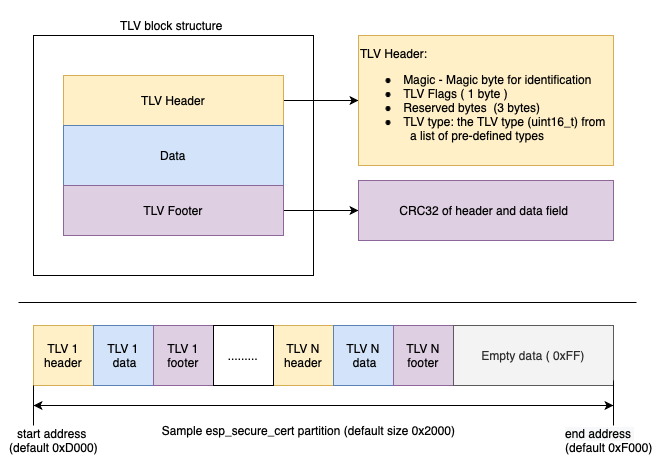
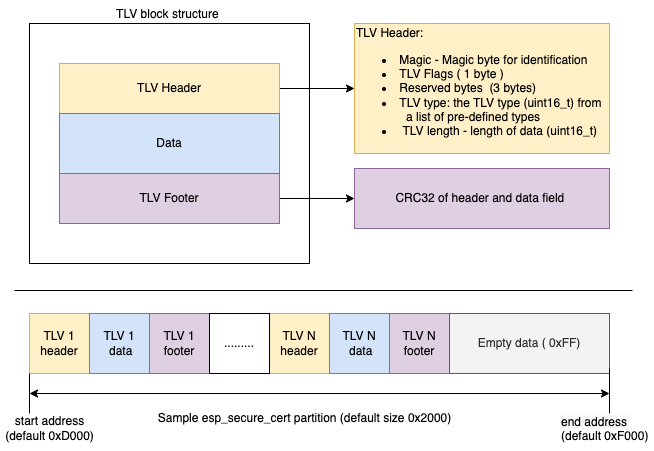
docs: Update TLV format doc to add information about length

diff --git a/docs/format.md b/docs/format.md
@@ -10,9 +10,9 @@ The TLV format used in the esp_secure_cert partition is as follows:
 
 * TLV header: It contains the information regarding the data such as the type of the data and the length of the data. For more details about the TLV, please take a look at [tlv_config.h](https://github.com/espressif/esp_secure_cert_mgr/tree/main/private_include/esp_secure_cert_tlv_config.h).
 
-    * i) TLV type: Currently the TLV format supports only a list of pre-defined types. The latest list for pre-defined types can be found at [tlv_config.h](https://github.com/espressif/esp_secure_cert_mgr/tree/main/private_include/esp_secure_cert_tlv_config.h). Additional custom types are also provided in order to allow storing custom data in TLV format. The custom data types can be typecasted to appropriate types after reading the TLV.
-    * ii)  TLV flags field - flags byte that identifies different characteristics for the TLV
-
+    * i)  TLV flags field - flags byte that identifies different characteristics for the TLV
+    * ii) TLV type: Currently the TLV format supports only a list of pre-defined types. The latest list for pre-defined types can be found at [tlv_config.h](https://github.com/espressif/esp_secure_cert_mgr/tree/main/private_include/esp_secure_cert_tlv_config.h). Additional custom types are also provided in order to allow storing custom data in TLV format. The custom data types can be typecasted to appropriate types after reading the TLV.
+    * iii) TLV length - the length of the data field in the TLV.
 * TLV footer: It contains the crc32 of the data and header field.
 * TLV format Padding - In TLV format a padding is added automatically between the end offset of data and TLV footer. The padding is added in order to make the data field a multiple of 16 bytes which is the minimum alignment required for flash encrypted writes.
 
